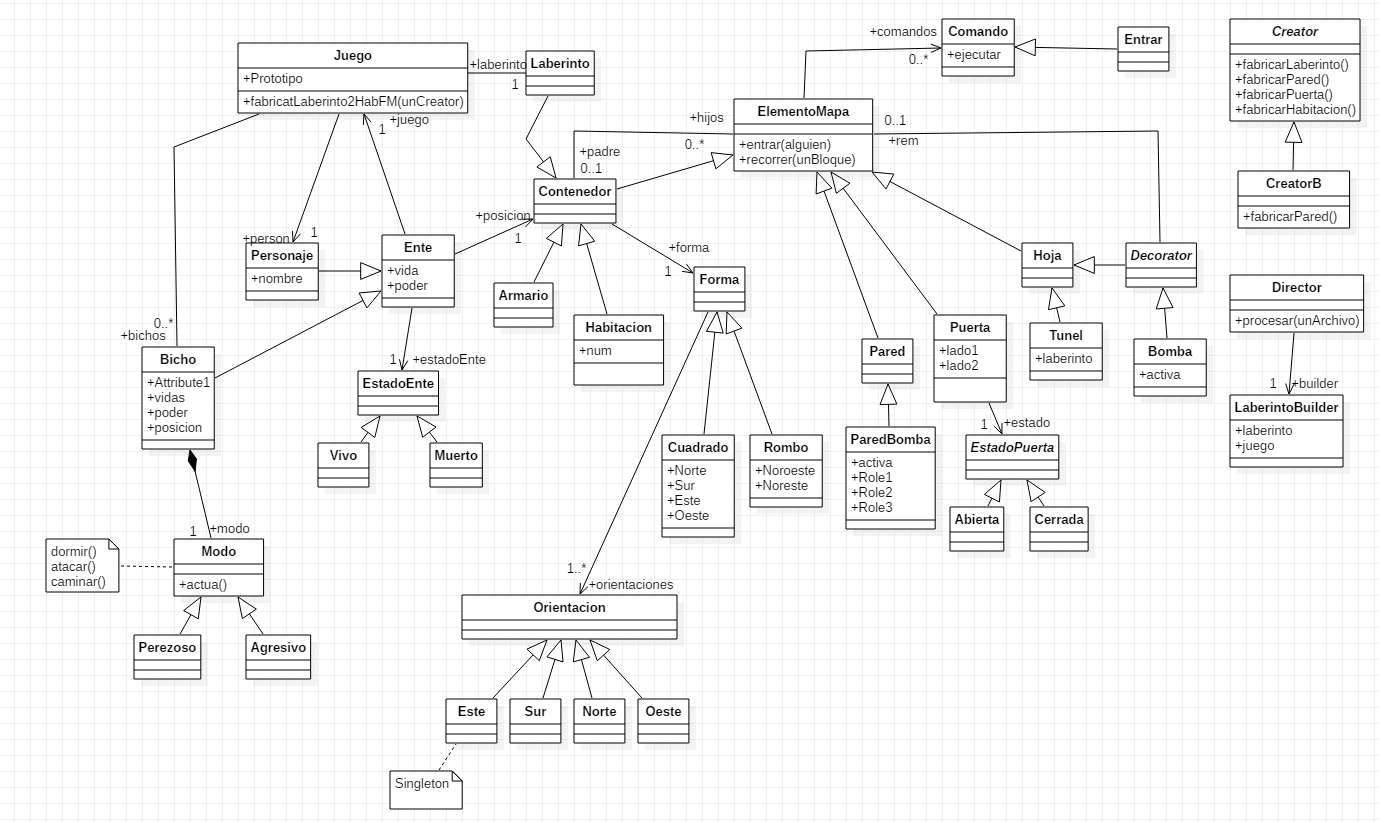
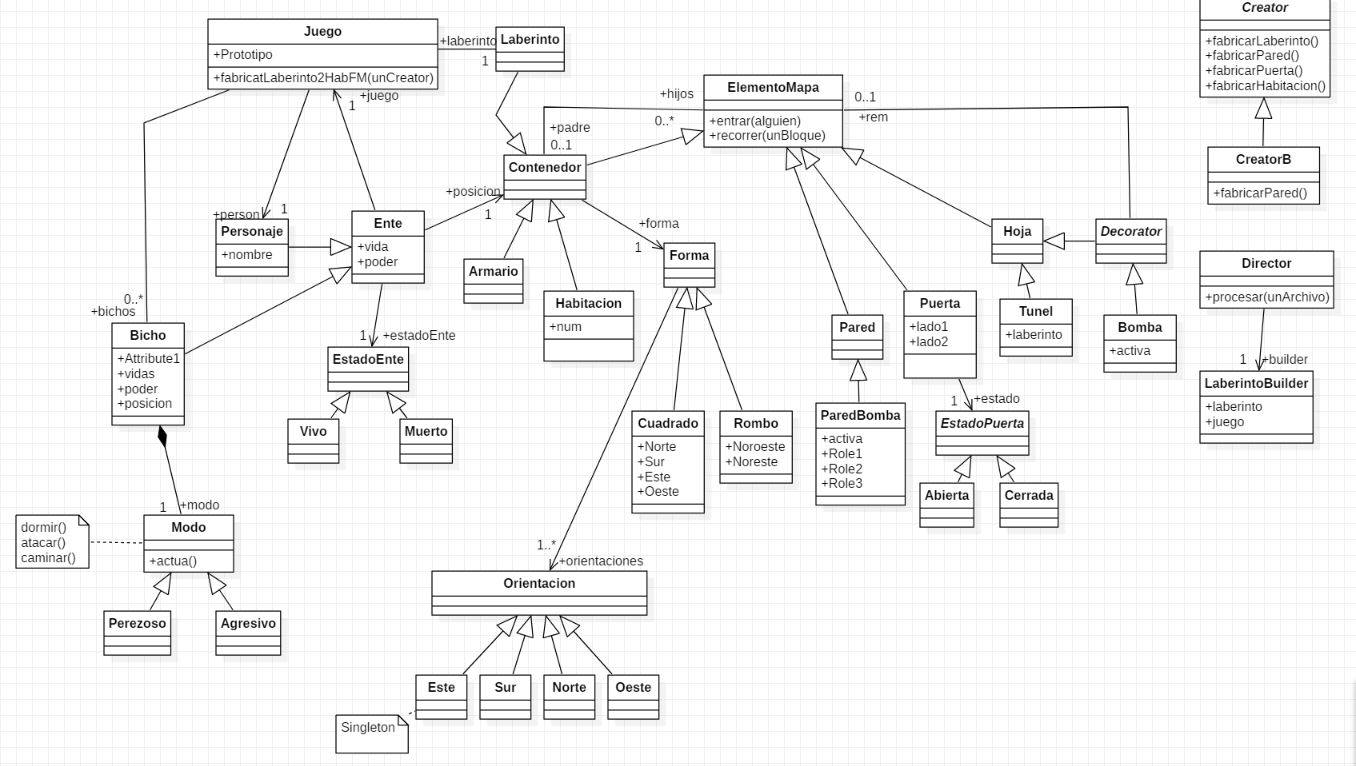
Readme corrección State y Command

diff --git a/README.md b/README.md
@@ -61,3 +61,8 @@ Bridge: Desacopla una abstracción de su implementación de modo que las dos pue
 Permite a un objeto alterar su comportamiento cuando cambia su estado interno. El objeto parecerá cambiar de clase. Reflejado en el diagrama en las calses EstadoEnte y EstadoPuerta.
  
 ![Diagrama](State.png)
+
+## Diagrama Command
+ Encapsula una petición como un objeto, permitiendo parametrizar a los clientes con diferentes peticiones y soportar operaciones deshacer. 
+ 
+![Diagrama](Command.png)
